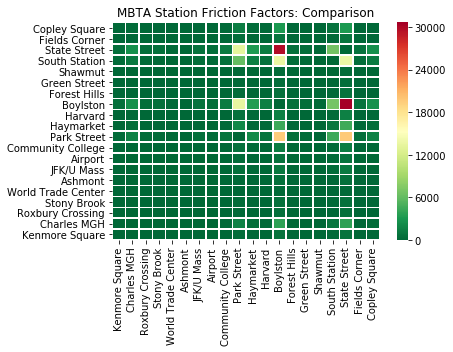
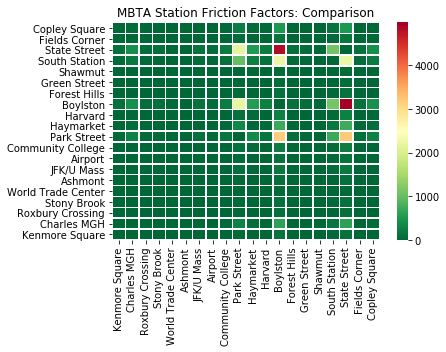
modification to station attraction formula

Changed region(s): [[0.0, 0.0, 0.991, 1.0]]

diff --git a/friction_factors.py b/friction_factors.py
@@ -27,7 +27,7 @@ def consolidate_turnstile_data(turnstile_df, unique_stations):
     
     return turnstile_df
 
-def compute_factor_estimates(unique_stations, station_popularity, station_distances):
+def compute_factor_estimates(unique_stations, station_popularity, station_distances, total_pop):
     '''
     Computes the friction factors between all MBTA stations based on populations of nearby zip code neighborhoods and distances between
     stations.
@@ -36,6 +36,7 @@ def compute_factor_estimates(unique_stations, station_popularity, station_distan
         its corresponding zip code neighborhoods is nonzero
         station_popularity: a dictionary with station keys and values equal to the sum of its nearby zip code neighborhoods
         station_distances: a pandas dataframe/matrix holding the distances between all MBTA stations that exist in the unique_stations array
+        total_pop: the total population of our neighborhood sample
     Returns:
         friction_estimates: a pandas dataframe/matrix holding the friction factors between all MBTA stations in the unique_stations
         array
@@ -48,17 +49,18 @@ def compute_factor_estimates(unique_stations, station_popularity, station_distan
     for i in range(len(friction_estimates)): # For every row in friction_estimates dataframe
         for j in range(len(friction_estimates)): # For every column in friction_estimates dataframe
             # Compute the friction factor between station i and station j
-            # Get the product of station popularities = (station i popularity) * (station j popularity)
-            pop_product = float(station_popularity[friction_estimates.index[i]]) * float(station_popularity[friction_estimates.columns[j]])
+            # Compute the number of trips from station i times the attraction factor of station j
+            # We assume the attraction factor of station j is proportional to the population of station j's neighborhood divided by the total population of the sample
+            pop_product = float(station_popularity[friction_estimates.index[i]]) * float(station_popularity[friction_estimates.columns[j]]) / total_pop
             
-            # Multiply pop_product by the Euclidean coordinate distance between station i and station j
+            # Divide pop_product by the Euclidean coordinate distance between station i and station j
             try:
                 fric_factor = float(pop_product) / float(station_distances.loc[friction_estimates.index[i]][friction_estimates.columns[j]])
             except:
-                fric_factor = 0
+                fric_factor = 0.0
             # Enter the friction factor into the appropriate position in the dataframe
             friction_estimates.iloc[i][j] = fric_factor
-    
+
     return friction_estimates
 
 def compute_factor_actuals(turnstile_df, unique_stations, station_distances):
@@ -83,14 +85,14 @@ def compute_factor_actuals(turnstile_df, unique_stations, station_distances):
     for i in range(len(friction_actuals)): # For every row i in friction_actuals dataframe
         for j in range(len(friction_actuals)): # For every column j in friction_actuals dataframe
             # Compute friction factor between station i and station j
-            # Get the product of (station i entrances) * (station j exits)
-            enter_exit_product = float(df.loc[friction_actuals.index[i]]['entries']) * float(df.loc[friction_actuals.columns[j]]['exits'])
+            # Compute the number of entrances from station i times the number of exits from station j, divided by total number of exits
+            enter_exit_product = float(df.loc[friction_actuals.index[i]]['entries']) * float(df.loc[friction_actuals.columns[j]]['exits']) / float(df.exits.sum())
     
-            # Multiply enter_exit_product by the distance between station i and station j
+            # Divide enter_exit_product by the distance between station i and station j
             try:
                 fric_factor = float(enter_exit_product) / float(station_distances.loc[friction_actuals.index[i]][friction_actuals.columns[j]])
             except:
-                fric_factor = 0
+                fric_factor = 0.0
             # Enter the friction factor into the appropriate position in the dataframe
             friction_actuals.iloc[i][j] = fric_factor
     

diff --git a/location_distances.py b/location_distances.py
@@ -99,6 +99,7 @@ def station_popularities(zip_closest_station, zip_pop):
         its corresponding zip code neighborhoods is greater than zero
         station_popularity: a dictionary with station keys and the sum of the populations of all zip codes to 
         which this station is closest
+        total_pop: the total population of our sample zip code neighborhoods
     '''
     # Initialize station_popularity dictionary
     station_popularity = {}
@@ -119,7 +120,13 @@ def station_popularities(zip_closest_station, zip_pop):
             # Increment the dictionary value by the population of the zip code neighborhood
             station_popularity[station] = station_popularity[station] + zip_pop[zip_code]
     
-    return unique_stations, station_popularity
+    # Initialize variable that will be used to compute the total population of the sample
+    total_pop = 0
+    for key in station_popularity: # For every zip code in our data with a nonzero population
+        total_pop += station_popularity[key] # Increment total_pop by the corresponding population
+        
+    
+    return unique_stations, station_popularity, float(total_pop)
     
     
     

diff --git a/compare_friction_factors.py b/compare_friction_factors.py
@@ -41,10 +41,10 @@ if __name__ == '__main__':
     # Determine the closest MBTA station to each zip code neighborhood
     zip_closest_station = ld.zip_closest_stations(ld.zip_station_matrix(zip_lat, zip_lon, station_lat, station_lon))
     # Format information that we already have into a dictionary with station keys and corresponding populations as values
-    unique_stations, station_popularity = ld.station_popularities(zip_closest_station, zip_pop)
+    unique_stations, station_popularity, total_pop = ld.station_popularities(zip_closest_station, zip_pop)
     
     # Get friction factors according to the gravity model
-    friction_factor_estimates = ff.compute_factor_estimates(unique_stations, station_popularity, station_distances)
+    friction_factor_estimates = ff.compute_factor_estimates(unique_stations, station_popularity, station_distances, total_pop)
     # Save friction factors to CSV file for easy reference
     friction_factor_estimates.to_csv('./friction_factors/estimated_factors.csv')
     
